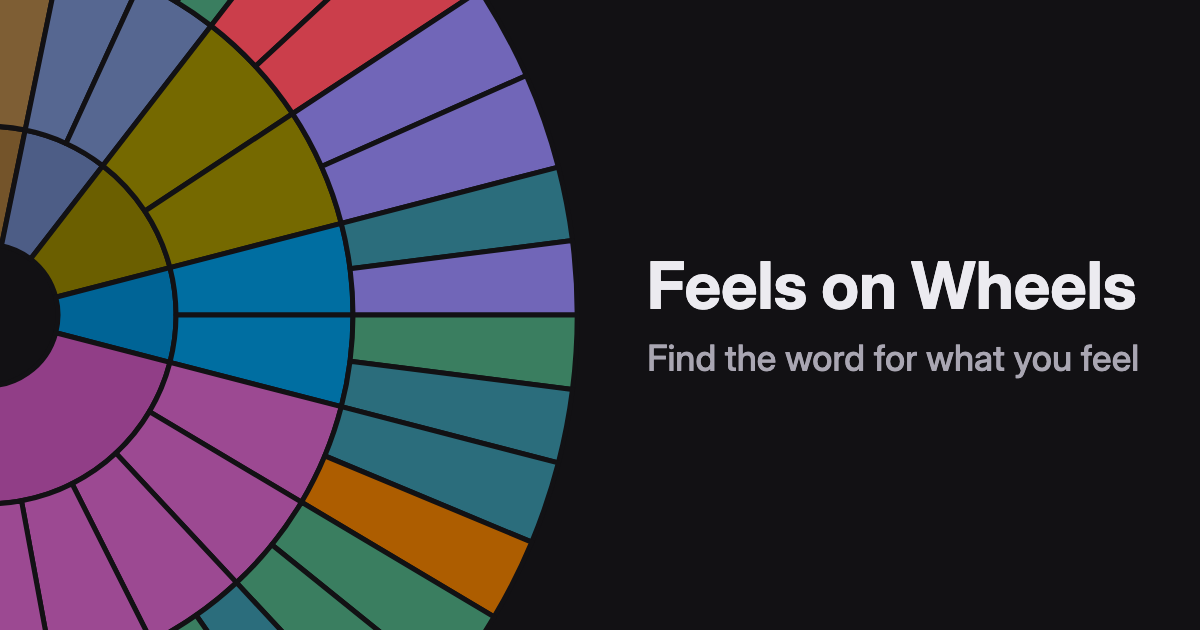
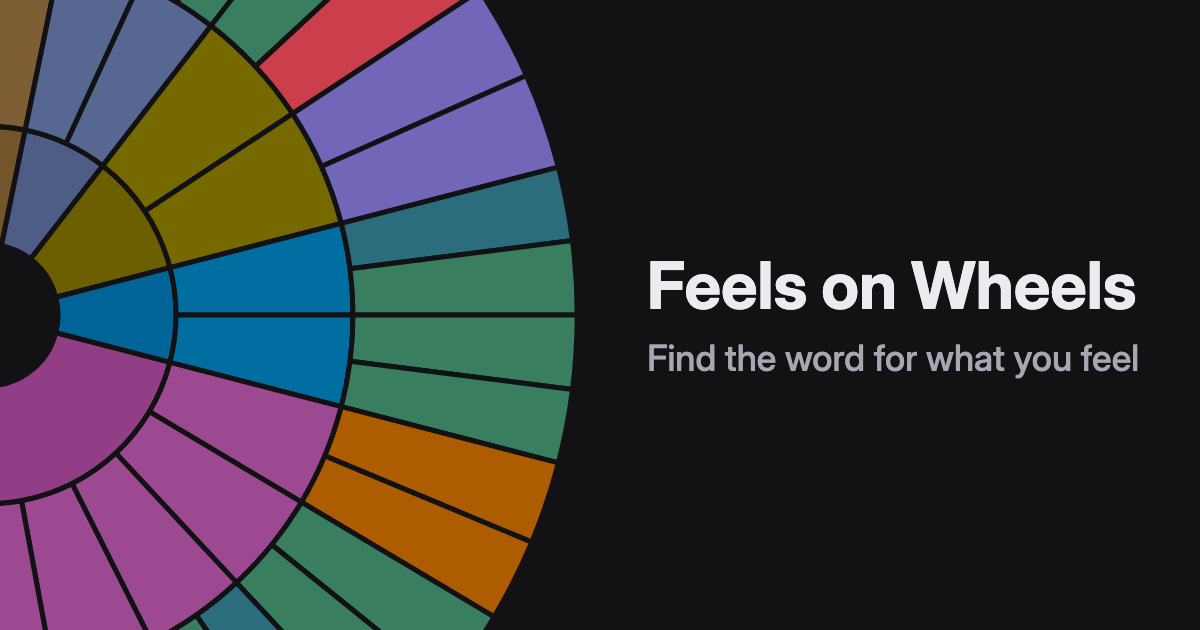
Opinionated wheel: link previews redrawn for the body wheel's new order

Changed region(s): [[0.2775, 0.573, 0.4933, 0.8444], [0.2775, 0.3921, 0.4933, 0.5127], [0.185, 0.0, 0.2775, 0.0905]]

diff --git a/docs/opinionated-wheel/handoff.md b/docs/opinionated-wheel/handoff.md
@@ -44,7 +44,7 @@ Done on 2026-11-26, as a repair: only what the new words forced changed ([resear
 - Move the rules into `src/data/README.md`'s content rules (it wins over a spec). The CI-side checks (each word once, layout, body wheel, what-happened tags, situations) become data tests; the pleasantness check and usage flags stay in the local scripts, since the datasets can't be committed.
 - `docs/website-icon/` (the link icon for lucaspolito.dev) still draws the seven old cores in their old colors; redraw it from the six cores, in their new order and colors.
 - Every source the rules and wheel lean on gets a note in `docs/reference/` and a credit in `docs/reference/README.md` and the root `README.md` (root `AGENTS.md`, "Sources and credits"). The research reports list them; there are many now. One open question for me: whether NRC's request for an About-page credit covers using it only as a design-time check.
-- Redraw `public/og/` (`node scripts/make-og-image.mjs`) once the wheels stop changing, not after each change (Lucas, 2026-11-26). The body wheel's order changed after the last redraw.
+- Redraw `public/og/` (`node scripts/make-og-image.mjs`) when the wheels change again, once they stop changing, not after each change (Lucas, 2026-11-26).
 - Write the spec in `docs/superpowers/specs/` and update the roadmap. Once their content is in the spec, `src/data/README.md`, and `docs/reference/`, the files in `docs/opinionated-wheel/` can go.
 
 ## Data
